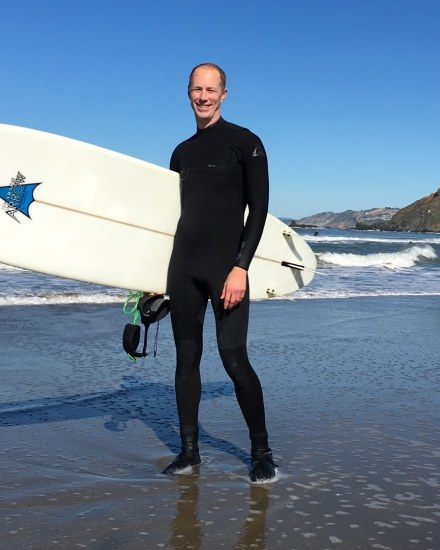
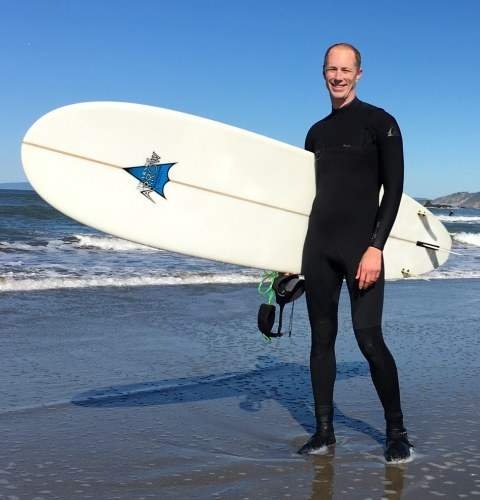
Re-crop Sean's photo to keep the whole surfboard

diff --git a/obituary.html b/obituary.html
@@ -5,7 +5,7 @@
 <link rel="stylesheet" href="default.css">
 <div id="header"><h1>Sean Rhea</h1></div>
 <div id="obituary">
-  <img src="images/sean-surfing.jpg" width="320" height="400" alt="Sean Rhea on the beach holding his surfboard">
+  <img src="images/sean-surfing.jpg" width="320" height="333" alt="Sean Rhea on the beach holding his surfboard">
 
   <p>Sean Rhea passed away peacefully at his home in San Francisco from GBM on September 13, 2025 — he had just turned 49 on August 23.</p>
 
